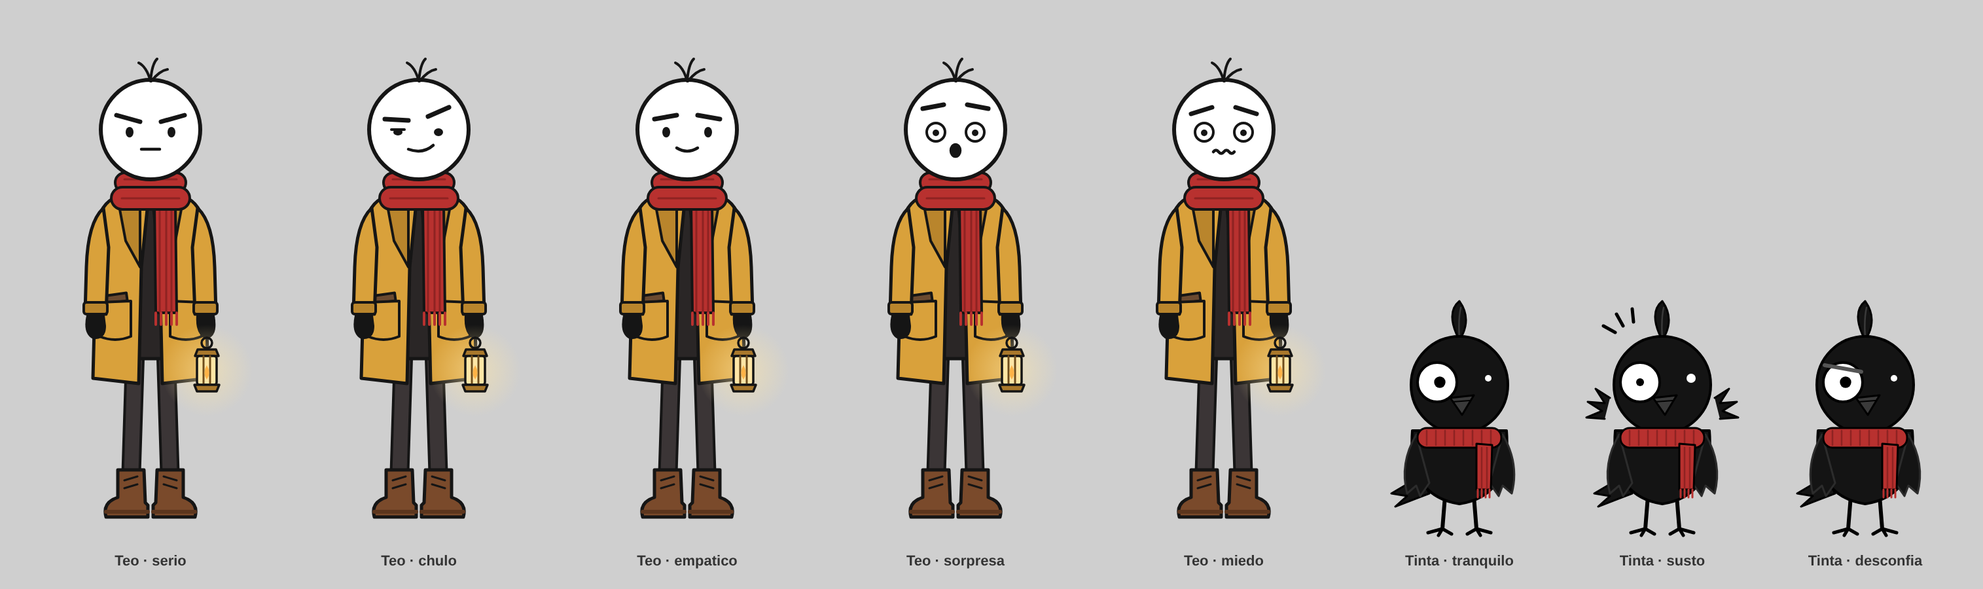
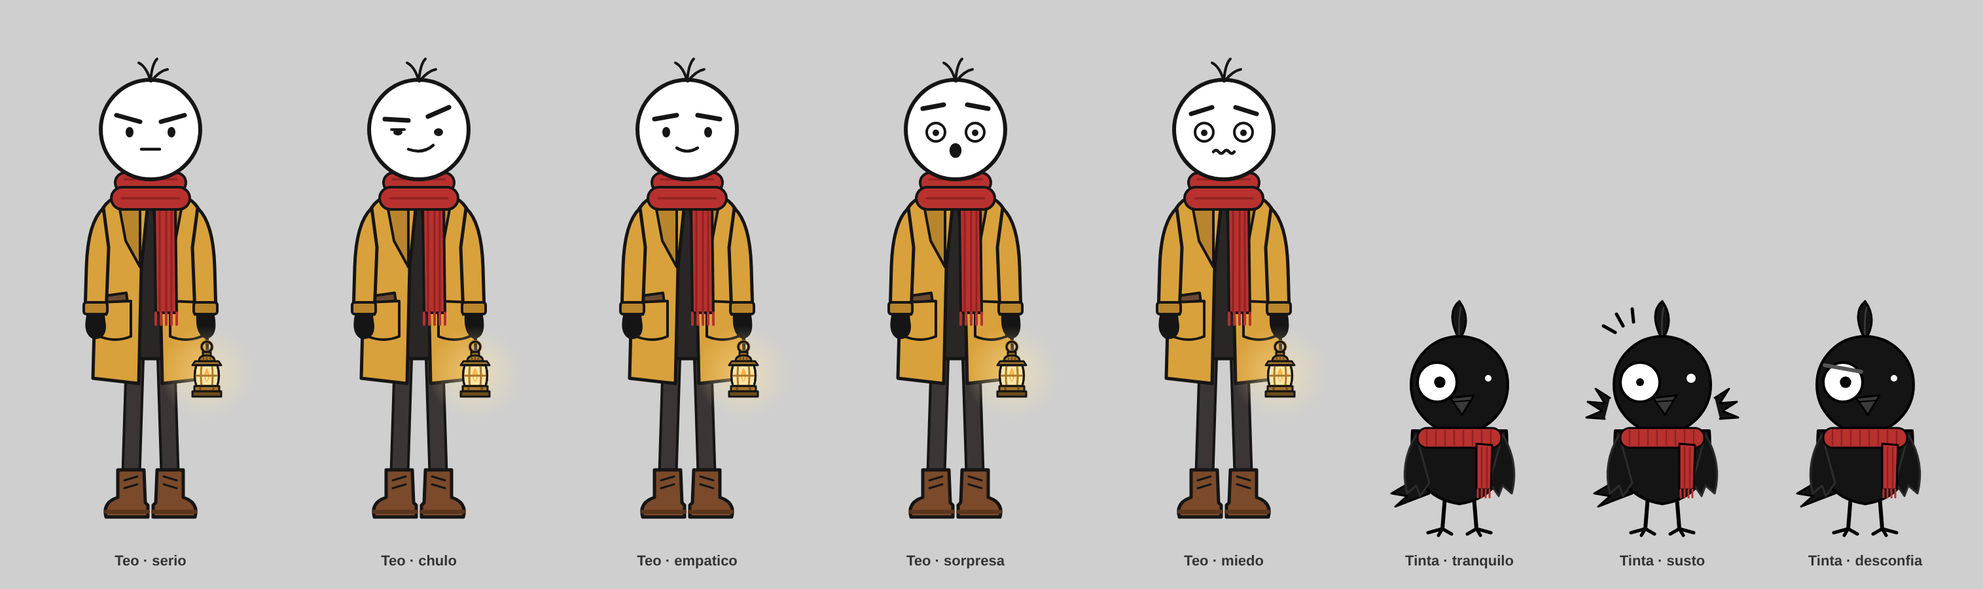
Personajes secundarios y objetos del episodio 001 en código; farol rehecho según la referencia
Claude-Session: https://claude.ai/code/session_01WqueqmNwLH2A2bwKD2Jsqo

diff --git a/codigo/personajes/secundarios.js b/codigo/personajes/secundarios.js
@@ -1,0 +1,110 @@
+// Personajes secundarios del episodio 001, construidos sobre figura().
+const { figura, T } = require('./figura');
+
+const AZUL = '#1F2A48', ORO = '#E0B040', OLIVA = '#4D5A33', OLIVA2 = '#3E4A28';
+
+// ---------- Accesorios ----------
+const gorraPiloto = (vista) => vista === 'perfil'
+  ? `<path d="M130 76 Q140 30 214 28 Q262 32 262 64 L250 80 L136 84 Z" fill="${AZUL}" stroke="${T}" stroke-width="5"/>
+     <path d="M136 70 L252 66 L252 82 L136 86 Z" fill="${ORO}" stroke="${T}" stroke-width="3"/>
+     <path d="M230 80 Q280 78 300 96 L238 92 Z" fill="${T}"/>`
+  : `<ellipse cx="200" cy="44" rx="104" ry="34" fill="${AZUL}" stroke="${T}" stroke-width="5"/>
+     <path d="M130 52 H270 V84 H130 Z" fill="${AZUL}" stroke="${T}" stroke-width="5"/>
+     <path d="M130 60 H270 V72 H130 Z" fill="${ORO}" stroke="${T}" stroke-width="3"/>
+     <path d="M136 84 Q200 104 264 84 L262 96 Q200 114 138 96 Z" fill="${T}"/>`;
+
+const bigote = (vista) => vista === 'perfil'
+  ? `<path d="M234 140 Q246 132 262 140 Q252 148 234 146 Z" fill="${T}"/>`
+  : `<path d="M174 142 Q186 130 200 138 Q214 130 226 142 Q214 148 200 142 Q186 148 174 142 Z" fill="${T}"/>`;
+
+const auriculares = (vista) => vista === 'perfil'
+  ? `<path d="M140 110 Q150 36 220 40" stroke="#222" stroke-width="12" fill="none"/>
+     <rect x="160" y="100" width="34" height="54" rx="14" fill="#2A2A2A" stroke="${T}" stroke-width="4"/>
+     <path d="M188 146 Q214 182 246 172" stroke="#222" stroke-width="5" fill="none"/><circle cx="248" cy="172" r="7" fill="#222"/>`
+  : `<path d="M126 118 Q130 30 200 34 Q270 30 274 118" stroke="#222" stroke-width="12" fill="none"/>
+     <rect x="108" y="100" width="34" height="56" rx="14" fill="#2A2A2A" stroke="${T}" stroke-width="4"/>
+     <rect x="258" y="100" width="34" height="56" rx="14" fill="#2A2A2A" stroke="${T}" stroke-width="4"/>
+     <path d="M272 150 Q262 176 232 172" stroke="#222" stroke-width="5" fill="none"/><circle cx="230" cy="172" r="7" fill="#222"/>`;
+
+const casco = (vista) => vista === 'perfil'
+  ? `<path d="M118 150 Q100 40 196 36 Q270 36 280 100 L246 104 Q230 70 196 74 Q160 80 160 150 Z" fill="#EDEBE4" stroke="${T}" stroke-width="5"/>
+     <path d="M150 50 Q200 22 262 60 L250 80 Q200 54 160 74 Z" fill="#1E1E1E" stroke="${T}" stroke-width="4"/>
+     <circle cx="148" cy="120" r="12" fill="#BDBAB0" stroke="${T}" stroke-width="3"/>
+     <path d="M150 156 Q170 196 140 236" stroke="#4E4E44" stroke-width="12" fill="none" stroke-dasharray="6 3"/>`
+  : `<path d="M112 160 Q96 40 200 36 Q304 40 288 160 L268 160 Q272 76 200 76 Q128 76 132 160 Z" fill="#EDEBE4" stroke="${T}" stroke-width="5"/>
+     <path d="M134 60 Q200 20 266 60 L258 82 Q200 54 142 82 Z" fill="#1E1E1E" stroke="${T}" stroke-width="4"/>
+     <circle cx="122" cy="130" r="10" fill="#BDBAB0" stroke="${T}" stroke-width="3"/><circle cx="278" cy="130" r="10" fill="#BDBAB0" stroke="${T}" stroke-width="3"/>`;
+
+const peloBob = (vista) => vista === 'perfil'
+  ? `<path d="M126 150 Q110 40 200 38 Q250 40 268 80 Q240 70 218 90 Q190 80 170 96 L170 170 Q150 176 126 150 Z" fill="#fff" stroke="${T}" stroke-width="5"/>`
+  : `<path d="M118 172 Q96 40 200 36 Q304 40 282 172 L256 172 Q262 120 250 96 Q200 108 150 96 Q138 120 144 172 Z" fill="#fff" stroke="${T}" stroke-width="5"/>
+     <path d="M156 98 V84 M180 102 V86 M204 104 V88 M228 102 V86 M248 98 V84" stroke="${T}" stroke-width="3"/>`;
+
+// ---------- Torso ----------
+const uniforme = (vista, galones) => {
+  const g = (x, y) => Array.from({ length: galones }, (_, i) => `<path d="M${x - 14} ${y + i * 9} h28" stroke="${ORO}" stroke-width="5"/>`).join('');
+  return vista === 'perfil'
+    ? `<path d="M222 228 L236 228 L232 300 Z" fill="#fff" stroke="${T}" stroke-width="3"/><path d="M228 236 L232 290" stroke="${T}" stroke-width="6"/>
+       <circle cx="226" cy="330" r="5" fill="${ORO}"/><circle cx="226" cy="380" r="5" fill="${ORO}"/>`
+    : `<path d="M178 226 L200 290 L222 226 Z" fill="#fff" stroke="${T}" stroke-width="3"/><path d="M200 236 L194 280 L200 300 L206 280 Z" fill="${T}"/>
+       <path d="M178 226 L200 300 L168 360 L150 236 Z M222 226 L200 300 L232 360 L250 236 Z" fill="${AZUL}" stroke="${T}" stroke-width="3" opacity="0.9"/>
+       <circle cx="200" cy="340" r="5" fill="${ORO}"/><circle cx="200" cy="384" r="5" fill="${ORO}"/>
+`;
+};
+// Galones dorados en los puños (de frente): van por delante de los brazos.
+const galonesFrente = (n) => [126, 274].map(x => Array.from({ length: n }, (_, i) => `<path d="M${x - 13} ${398 - i * 9} h26" stroke="${ORO}" stroke-width="5"/>`).join('')).join('');
+const arnes = (vista) => vista === 'perfil'
+  ? `<path d="M190 232 L196 430 M166 380 H240" stroke="#5E5E52" stroke-width="10"/><rect x="186" y="368" width="20" height="22" fill="#A8A8A0" stroke="${T}" stroke-width="3"/>`
+  : `<path d="M168 232 L176 430 M232 232 L224 430 M140 400 H260" stroke="#5E5E52" stroke-width="10"/>
+     <rect x="188" y="388" width="24" height="24" fill="#A8A8A0" stroke="${T}" stroke-width="3"/><path d="M200 232 V380" stroke="${OLIVA2}" stroke-width="4"/>
+     <rect x="150" y="300" width="32" height="34" fill="${OLIVA2}" stroke="${T}" stroke-width="3"/>`;
+const camisaControlador = (vista) => vista === 'perfil'
+  ? `<path d="M220 228 L236 228 L230 250 Z" fill="#fff" stroke="${T}" stroke-width="3"/><path d="M162 426 H240" stroke="#222" stroke-width="10"/>`
+  : `<path d="M180 226 L200 252 L220 226" fill="none" stroke="${T}" stroke-width="4"/><path d="M200 252 V420" stroke="${T}" stroke-width="3"/>
+     <rect x="214" y="280" width="30" height="30" fill="none" stroke="${T}" stroke-width="3"/><path d="M136 426 H264" stroke="#222" stroke-width="10"/><rect x="190" y="418" width="20" height="16" fill="#9A9A9A"/>`;
+const rebeca = (vista) => vista === 'perfil'
+  ? `<path d="M220 228 L238 230 L232 262 Z" fill="#F2EAD8" stroke="${T}" stroke-width="3"/><circle cx="232" cy="300" r="5" fill="${T}"/><circle cx="234" cy="350" r="5" fill="${T}"/>`
+  : `<path d="M176 226 L200 262 L224 226 Z" fill="#F2EAD8" stroke="${T}" stroke-width="3"/><path d="M200 262 V420" stroke="${T}" stroke-width="3"/>
+     <circle cx="200" cy="300" r="5" fill="${T}"/><circle cx="200" cy="340" r="5" fill="${T}"/><circle cx="200" cy="380" r="5" fill="${T}"/>`;
+
+// ---------- Objetos de mano ----------
+const microfono = (x, y) => `<g transform="translate(${x} ${y})"><rect x="-16" y="-34" width="32" height="50" rx="12" fill="#4A4F3E" stroke="${T}" stroke-width="4"/>
+  <path d="M-8 -22 h16 M-8 -14 h16 M-8 -6 h16" stroke="${T}" stroke-width="3"/>
+  <path d="M0 16 q-10 16 4 22 q14 6 0 18 q-14 10 4 20 q16 8 0 20" stroke="#222" stroke-width="5" fill="none"/></g>`;
+const cuernoMando = (x, y) => `<g transform="translate(${x} ${y})"><path d="M0 -50 V50" stroke="#222" stroke-width="20" stroke-linecap="round"/><path d="M-8 0 H40" stroke="#333" stroke-width="16"/></g>`;
+const palanca = (x, y) => `<g transform="translate(${x} ${y})"><path d="M0 0 V-70" stroke="#2a2a2a" stroke-width="12"/><rect x="-12" y="-96" width="24" height="34" rx="8" fill="#333" stroke="${T}" stroke-width="3"/><circle cx="0" cy="-92" r="5" fill="#C0392B"/></g>`;
+const cascoEnMano = (x, y) => `<g transform="translate(${x} ${y})"><circle r="56" fill="#EDEBE4" stroke="${T}" stroke-width="5"/><path d="M-40 -10 Q0 -44 40 -10 Q30 30 0 34 Q-30 30 -40 -10 Z" fill="#1E1E1E"/><path d="M0 34 q-10 30 10 60" stroke="#4E4E44" stroke-width="12" fill="none" stroke-dasharray="6 3"/></g>`;
+
+// ---------- Personajes ----------
+const ropaPiloto = { torso: AZUL, pantalon: '#1B2440', zapatos: '#111', manos: '#151515', largoChaqueta: 450 };
+
+const comandante = {
+  depie: (cara = 'serio') => figura({ vista: 'frente', cara, ropa: ropaPiloto, pecho: uniforme('frente', 4), cabeza: gorraPiloto('frente') + bigote('frente'), delante: galonesFrente(4) }),
+  mandos: (cara = 'serio') => figura({ vista: 'perfil', pose: 'sentado', cara, ropa: ropaPiloto, pecho: uniforme('perfil', 4),
+    cabeza: gorraPiloto('perfil') + bigote('perfil'), brazoIzq: [[250, 320], [320, 316]], brazoDer: [[262, 330], [330, 330]], delante: cuernoMando(338, 322) }),
+  radio: (cara = 'preocupado') => figura({ vista: 'perfil', pose: 'sentado', cara, ropa: ropaPiloto, pecho: uniforme('perfil', 4),
+    cabeza: gorraPiloto('perfil') + bigote('perfil'), brazoIzq: [[240, 340], [300, 380]], brazoDer: [[262, 320], [262, 196]], delante: microfono(268, 196) }),
+};
+const copiloto = {
+  depie: (cara = 'serio') => figura({ vista: 'frente', cara, ropa: { ...ropaPiloto, manos: '#fff' }, pecho: uniforme('frente', 2), cabeza: auriculares('frente'), delante: galonesFrente(2) }),
+  sentado: (cara = 'serio') => figura({ vista: 'perfil', pose: 'sentado', cara, ropa: { ...ropaPiloto, manos: '#fff' }, pecho: uniforme('perfil', 2), cabeza: auriculares('perfil'), brazoIzq: [[236, 360], [290, 420]], brazoDer: [[250, 370], [300, 420]] }),
+  senala: (cara = 'sorpresa') => figura({ vista: 'perfil', pose: 'sentado', cara, ropa: { ...ropaPiloto, manos: '#fff' }, pecho: uniforme('perfil', 2), cabeza: auriculares('perfil'), brazoIzq: [[236, 360], [290, 420]], brazoDer: [[290, 250], [372, 236]] }),
+};
+const ropaCaza = { torso: OLIVA, pantalon: OLIVA, zapatos: '#151515', manos: '#151515', largoChaqueta: 460 };
+const pilotoCaza = {
+  depie: (cara = 'decidido') => figura({ vista: 'frente', cara, ropa: ropaCaza, pecho: arnes('frente'), brazoIzq: [[120, 320], [160, 360]], delante: cascoEnMano(130, 360) }),
+  cabina: (cara = 'decidido') => figura({ vista: 'perfil', pose: 'sentado', silla: false, cara, ropa: ropaCaza, pecho: arnes('perfil'), cabeza: casco('perfil'), brazoIzq: [[236, 360], [290, 400]], brazoDer: [[250, 360], [300, 420]], delante: palanca(300, 470) }),
+};
+const controlador = {
+  depie: (cara = 'serio') => figura({ vista: 'frente', cara, ropa: { torso: '#A9C3E3', pantalon: '#26304A', manos: '#151515', mangaCorta: true, largoChaqueta: 430 }, pecho: camisaControlador('frente'), cabeza: auriculares('frente') }),
+  sentado: (cara = 'serio') => figura({ vista: 'perfil', pose: 'sentado', cara, ropa: { torso: '#A9C3E3', pantalon: '#26304A', manos: '#151515', mangaCorta: true, largoChaqueta: 430 }, pecho: camisaControlador('perfil'), cabeza: auriculares('perfil'), brazoIzq: [[240, 340], [310, 360]], brazoDer: [[250, 350], [320, 370]] }),
+  senala: (cara = 'grita') => figura({ vista: 'perfil', pose: 'sentado', cara, ropa: { torso: '#A9C3E3', pantalon: '#26304A', manos: '#151515', mangaCorta: true, largoChaqueta: 430 }, pecho: camisaControlador('perfil'), cabeza: auriculares('perfil'), brazoIzq: [[240, 340], [310, 360]], brazoDer: [[290, 260], [380, 250]] }),
+};
+const ropaControladora = { torso: '#C7AE8A', pantalon: '#151515', manos: '#151515', falda: '#5A4030', largoChaqueta: 440 };
+const controladora = {
+  depie: (cara = 'serio') => figura({ vista: 'frente', cara, ropa: ropaControladora, pecho: rebeca('frente'), detrasCabeza: '', cabeza: peloBob('frente') + auriculares('frente') }),
+  sentada: (cara = 'serio') => figura({ vista: 'perfil', pose: 'sentado', cara, ropa: ropaControladora, pecho: rebeca('perfil'), cabeza: peloBob('perfil') + auriculares('perfil'), brazoIzq: [[240, 340], [310, 360]], brazoDer: [[250, 350], [320, 370]] }),
+  sorpresa: (cara = 'sorpresa') => figura({ vista: 'perfil', pose: 'sentado', cara, ropa: ropaControladora, pecho: rebeca('perfil'), cabeza: peloBob('perfil') + auriculares('perfil'), brazoIzq: [[240, 340], [310, 360]], brazoDer: [[270, 320], [250, 250]] }),
+};
+
+module.exports = { comandante, copiloto, pilotoCaza, controlador, controladora };

diff --git a/codigo/personajes/figura.js b/codigo/personajes/figura.js
@@ -1,0 +1,113 @@
+// Monigote genérico y configurable: sirve para el comandante, el copiloto, el piloto del caza,
+// los controladores y el elenco de cada episodio. Caja de 400 x 760, misma escala que Teo y Lucía.
+//
+// opciones:
+//   vista: 'frente' | 'perfil' (el perfil mira a la derecha)
+//   pose: 'depie' | 'sentado'
+//   cara: 'serio' | 'preocupado' | 'sorpresa' | 'grita' | 'decidido'
+//   ropa: { torso, mangas, pantalon, zapatos, manos, largoChaqueta, mangaCorta, falda }
+//   brazoIzq / brazoDer: [[codoX, codoY], [manoX, manoY]] (coordenadas absolutas de la caja)
+//   cabeza: svg extra por encima de la cabeza (gorra, casco, auriculares, pelo)
+//   detrasCabeza: svg por detrás de la cabeza (pelo largo, casco trasero)
+//   pecho: svg extra encima del torso (corbata, botones, arneses)
+//   delante: svg extra por delante de todo (objeto en la mano)
+//   silla: true para dibujar el asiento (solo sentado)
+const T = '#151515';
+
+const CARAS = {
+  frente: {
+    serio:      { cejas: 'M148 98 L184 108 M216 108 L252 98', ojos: 'normal', boca: 'M186 150 L214 150' },
+    decidido:   { cejas: 'M148 94 L186 110 M214 110 L252 94', ojos: 'normal', boca: 'M184 152 L216 150' },
+    preocupado: { cejas: 'M150 104 L184 94 M216 94 L250 104', ojos: 'normal', boca: 'M186 154 q7 -6 14 0 q7 6 14 0' },
+    sorpresa:   { cejas: 'M150 90 Q166 80 182 86 M218 86 Q234 80 250 90', ojos: 'grandes', boca: 'O' },
+    grita:      { cejas: 'M148 96 L184 106 M216 106 L252 96', ojos: 'grandes', boca: 'G' },
+  },
+  perfil: {
+    serio:      { cejas: 'M222 100 L254 108', ojo: [240, 124], boca: 'M232 152 L254 150' },
+    decidido:   { cejas: 'M220 96 L256 110', ojo: [240, 126], boca: 'M230 152 L256 150' },
+    preocupado: { cejas: 'M222 108 L254 96', ojo: [240, 124], boca: 'M232 154 q6 -5 12 0 q6 5 12 0' },
+    sorpresa:   { cejas: 'M222 92 Q238 82 254 90', ojo: [240, 122], boca: 'O' },
+    grita:      { cejas: 'M220 98 L254 106', ojo: [240, 122], boca: 'G' },
+  },
+};
+
+function cara(vista, nombre) {
+  const c = CARAS[vista][nombre] || CARAS[vista].serio;
+  let s = `<path d="${c.cejas}" stroke="${T}" stroke-width="7" stroke-linecap="round" fill="none"/>`;
+  if (vista === 'frente') {
+    s += c.ojos === 'grandes'
+      ? `<circle cx="168" cy="124" r="13" fill="#fff" stroke="${T}" stroke-width="4"/><circle cx="232" cy="124" r="13" fill="#fff" stroke="${T}" stroke-width="4"/><circle cx="168" cy="125" r="5" fill="${T}"/><circle cx="232" cy="125" r="5" fill="${T}"/>`
+      : `<ellipse cx="168" cy="124" rx="6" ry="8" fill="${T}"/><ellipse cx="232" cy="124" rx="6" ry="8" fill="${T}"/>`;
+    if (c.boca === 'O') s += `<ellipse cx="200" cy="156" rx="8" ry="10" fill="${T}"/>`;
+    else if (c.boca === 'G') s += `<path d="M180 146 Q200 140 220 146 Q216 178 200 178 Q184 178 180 146 Z" fill="${T}"/><path d="M188 168 Q200 162 212 168" stroke="#C0504D" stroke-width="5" fill="none"/>`;
+    else s += `<path d="${c.boca}" stroke="${T}" stroke-width="4.5" fill="none" stroke-linecap="round"/>`;
+  } else {
+    const [x, y] = c.ojo;
+    s += `<ellipse cx="${x}" cy="${y}" rx="6" ry="8" fill="${T}"/>`;
+    if (c.boca === 'O') s += `<ellipse cx="246" cy="156" rx="7" ry="9" fill="${T}"/>`;
+    else if (c.boca === 'G') s += `<path d="M230 148 L262 144 Q258 176 244 176 Q232 174 230 148 Z" fill="${T}"/>`;
+    else s += `<path d="${c.boca}" stroke="${T}" stroke-width="4.5" fill="none" stroke-linecap="round"/>`;
+  }
+  return s;
+}
+
+const trazo = (d, color, ancho) => `<path d="${d}" fill="none" stroke="${T}" stroke-width="${ancho + 8}" stroke-linecap="round" stroke-linejoin="round"/><path d="${d}" fill="none" stroke="${color}" stroke-width="${ancho}" stroke-linecap="round" stroke-linejoin="round"/>`;
+const palo = (d) => `<path d="${d}" fill="none" stroke="${T}" stroke-width="9" stroke-linecap="round" stroke-linejoin="round"/>`;
+
+function silla() {
+  return `<g stroke="${T}" stroke-width="5" stroke-linejoin="round">
+    <path d="M96 230 Q100 210 130 212 L176 216 Q186 220 186 240 L184 470 L106 470 Z" fill="#3E4250"/>
+    <path d="M100 450 H350 Q362 452 360 470 L356 500 H104 Z" fill="#4A4F60"/>
+    <rect x="214" y="500" width="30" height="140" fill="#55585F"/>
+    <path d="M150 650 H310 L300 636 H160 Z" fill="#55585F"/></g>`;
+}
+
+function figura(o = {}) {
+  const vista = o.vista || 'frente', sentado = o.pose === 'sentado';
+  const r = Object.assign({ torso: '#2B3A5C', mangas: null, pantalon: '#2B2B33', zapatos: '#151515', manos: '#151515', largoChaqueta: 440 }, o.ropa || {});
+  const mangas = r.mangas || r.torso;
+  const perfil = vista === 'perfil';
+  // Hombros y caderas
+  const hI = perfil ? [196, 236] : [150, 238], hD = perfil ? [206, 236] : [250, 238];
+  const cad = 430;
+  const bI = o.brazoIzq || (perfil ? [[196, 330], [204, 420]] : [[130, 330], [126, 420]]);
+  const bD = o.brazoDer || (perfil ? [[210, 330], [216, 420]] : [[270, 330], [274, 420]]);
+  const brazo = (h, [c, m]) => `M${h[0]} ${h[1]} L${c[0]} ${c[1]} L${m[0]} ${m[1]}`;
+  const dibBrazo = (h, b) => {
+    if (r.mangaCorta) { const mx = h[0] + (b[0][0] - h[0]) * 0.55, my = h[1] + (b[0][1] - h[1]) * 0.55;
+      return trazo(`M${h[0]} ${h[1]} L${mx} ${my}`, mangas, 26) + palo(`M${mx} ${my} L${b[0][0]} ${b[0][1]} L${b[1][0]} ${b[1][1]}`); }
+    return trazo(brazo(h, b), mangas, 20);
+  };
+  const mano = ([, m]) => `<ellipse cx="${m[0]}" cy="${m[1] + 6}" rx="14" ry="16" fill="${r.manos}" stroke="${T}" stroke-width="4"/>`;
+  // Piernas
+  let piernas;
+  if (sentado) {
+    const pie = (x) => `<path d="M${x - 16} 640 h48 q12 0 12 14 v8 h-60 z" fill="${r.zapatos}" stroke="${T}" stroke-width="4"/>`;
+    piernas = (r.falda ? trazo('M200 432 L318 446 L320 636', '#151515', 2).replace(/stroke-width="10"/, 'stroke-width="9"') : trazo('M196 432 L316 446 L318 632', r.pantalon, 24)) + pie(318);
+  } else if (perfil) {
+    piernas = (r.falda ? palo('M198 520 L196 690 M206 520 L210 690') : trazo('M196 432 L194 684', r.pantalon, 24) + trazo('M206 432 L210 684', r.pantalon, 24))
+      + `<path d="M178 680 h44 q20 2 20 18 v6 h-64 z" fill="${r.zapatos}" stroke="${T}" stroke-width="4"/>`;
+  } else {
+    piernas = (r.falda ? palo('M182 520 L178 690 M218 520 L222 690') : trazo('M176 432 L172 684', r.pantalon, 26) + trazo('M224 432 L228 684', r.pantalon, 26))
+      + `<ellipse cx="164" cy="696" rx="34" ry="16" fill="${r.zapatos}" stroke="${T}" stroke-width="4"/><ellipse cx="236" cy="696" rx="34" ry="16" fill="${r.zapatos}" stroke="${T}" stroke-width="4"/>`;
+  }
+  const falda = r.falda ? (perfil || sentado ? `<path d="M168 420 L240 420 L${sentado ? 300 : 250} 530 L${sentado ? 190 : 156} 530 Z" fill="${r.falda}" stroke="${T}" stroke-width="5"/>` : `<path d="M150 420 L250 420 L268 530 L132 530 Z" fill="${r.falda}" stroke="${T}" stroke-width="5"/>`) : '';
+  const torso = perfil
+    ? `<path d="M166 226 Q200 214 236 226 L240 ${r.largoChaqueta} L162 ${r.largoChaqueta} Z" fill="${r.torso}" stroke="${T}" stroke-width="5" stroke-linejoin="round"/>`
+    : `<path d="M140 228 Q200 212 260 228 L264 ${r.largoChaqueta} L136 ${r.largoChaqueta} Z" fill="${r.torso}" stroke="${T}" stroke-width="5" stroke-linejoin="round"/>`;
+  // En perfil el brazo izquierdo (el lejano) va por detrás del torso.
+  return `<svg xmlns="http://www.w3.org/2000/svg" viewBox="0 0 400 760" width="400" height="760">
+  ${sentado && o.silla !== false ? silla() : ''}
+  ${perfil ? dibBrazo(hI, bI) + mano(bI) : ''}
+  ${piernas}${falda}${torso}${o.pecho || ''}
+  ${perfil ? '' : dibBrazo(hI, bI) + mano(bI)}
+  ${dibBrazo(hD, bD)}${mano(bD)}
+  ${o.detrasCabeza || ''}
+  <circle cx="200" cy="120" r="76" fill="#fff" stroke="${T}" stroke-width="6"/>
+  ${cara(vista, o.cara || 'serio')}
+  ${o.cabeza || ''}
+  ${o.delante || ''}
+  </svg>`;
+}
+
+module.exports = { figura, T };

diff --git a/codigo/objetos/objetos.js b/codigo/objetos/objetos.js
@@ -1,0 +1,96 @@
+// Objetos del episodio 001 dibujados en SVG.
+const T = '#151515';
+
+// Avión de pasajeros de los 70 (tipo Caravelle), de perfil mirando a la derecha. Caja 1200 x 360.
+function avion({ ventanasEncendidas = true } = {}) {
+  let ventanas = '';
+  for (let i = 0; i < 21; i++) ventanas += `<rect x="${450 + i * 28}" y="160" width="14" height="18" rx="4" fill="${ventanasEncendidas ? '#FFE3A0' : '#9AA3AE'}" stroke="${T}" stroke-width="2"/>`;
+  return `<svg xmlns="http://www.w3.org/2000/svg" viewBox="0 0 1200 360" width="1200" height="360">
+  <g stroke-linejoin="round" stroke-linecap="round">
+    <!-- deriva y estabilizador -->
+    <path d="M150 140 L110 30 L170 30 L280 140 Z" fill="#1F5BB0" stroke="${T}" stroke-width="5"/>
+    <path d="M118 48 L176 48 L270 138" stroke="#F4F1EA" stroke-width="10" fill="none"/>
+    <path d="M60 64 L230 58 L236 76 L60 80 Z" fill="#C9CDD2" stroke="${T}" stroke-width="4"/>
+    <!-- fuselaje -->
+    <path d="M90 150 Q100 132 160 130 L1080 130 Q1150 134 1170 180 Q1150 222 1080 226 L200 226 Q120 220 90 180 Z" fill="#F4F1EA" stroke="${T}" stroke-width="5"/>
+    <path d="M100 186 Q140 214 200 222 L1080 222 Q1140 218 1162 196 L1162 190 L96 190 Z" fill="#1F5BB0"/>
+    <path d="M110 184 H1166" stroke="#F4F1EA" stroke-width="6"/>
+    <path d="M90 150 Q100 132 160 130 L1080 130 Q1150 134 1170 180 Q1150 222 1080 226 L200 226 Q120 220 90 180 Z" fill="none" stroke="${T}" stroke-width="5"/>
+    <!-- morro y cabina -->
+    <path d="M1150 160 Q1180 170 1182 182 Q1176 196 1150 202 Q1160 182 1150 160 Z" fill="#1A1A1A" stroke="${T}" stroke-width="3"/>
+    <path d="M1086 150 L1130 150 L1144 164 L1086 166 Z" fill="#FFE3A0" stroke="${T}" stroke-width="3"/><path d="M1104 150 V166 M1122 150 V166" stroke="${T}" stroke-width="3"/>
+    ${ventanas}
+    <rect x="1050" y="152" width="0" height="0" rx="5" fill="none" stroke="${T}" stroke-width="3"/><rect x="1040" y="152" width="22" height="40" rx="5" fill="none" stroke="${T}" stroke-width="3"/>
+    <!-- motor trasero -->
+    <path d="M230 150 Q236 128 300 128 L420 132 Q440 150 420 168 L300 172 Q236 172 230 150 Z" fill="#D7DADE" stroke="${T}" stroke-width="5"/>
+    <ellipse cx="420" cy="150" rx="12" ry="18" fill="#2A2A2A" stroke="${T}" stroke-width="3"/>
+    <!-- ala -->
+    <path d="M520 220 L860 214 Q900 216 900 226 L620 252 L500 246 Z" fill="#C9CDD2" stroke="${T}" stroke-width="5"/>
+    <!-- luces de navegación -->
+    <circle cx="512" cy="240" r="6" fill="#FF4A3A"/><circle cx="140" cy="30" r="6" fill="#fff"/>
+  </g></svg>`;
+}
+
+// Caza tipo Mirage F1, de perfil mirando a la derecha. Caja 1200 x 360. postquemador = llama del motor.
+function caza({ postquemador = false } = {}) {
+  const camo = '#7C8188', camo2 = '#A7ACB2';
+  return `<svg xmlns="http://www.w3.org/2000/svg" viewBox="0 0 1200 360" width="1200" height="360">
+  <defs><linearGradient id="llama" x1="1" y1="0" x2="0" y2="0"><stop offset="0" stop-color="#FFF4C2"/><stop offset="0.4" stop-color="#FFB040"/><stop offset="1" stop-color="#FF5A2A" stop-opacity="0"/></linearGradient></defs>
+  <g stroke-linejoin="round" stroke-linecap="round">
+    ${postquemador ? `<path d="M210 168 L0 150 L40 180 L0 210 L210 196 Z" fill="url(#llama)"/><path d="M210 172 L80 180 L210 190 Z" fill="#FFF8D8"/>` : ''}
+    <!-- deriva -->
+    <path d="M260 150 L230 30 L290 30 L420 150 Z" fill="${camo2}" stroke="${T}" stroke-width="5"/>
+    <path d="M250 80 Q290 70 300 110 Q270 120 260 100 Z" fill="${camo}"/>
+    <!-- fuselaje -->
+    <path d="M210 160 L420 140 L860 130 Q960 132 1060 170 L1170 182 L1060 192 Q960 206 860 212 L420 212 L210 200 Z" fill="${camo2}" stroke="${T}" stroke-width="5"/>
+    <path d="M440 150 Q520 140 560 170 Q520 200 460 196 Z M700 140 Q760 130 800 160 Q760 190 700 180 Z M300 160 Q360 150 380 186 Q330 200 300 190 Z" fill="${camo}"/>
+    <path d="M1060 170 L1170 182 L1060 192 Z" fill="#2A2A2A" stroke="${T}" stroke-width="3"/>
+    <path d="M1170 182 H1198" stroke="${T}" stroke-width="4"/>
+    <!-- cabina -->
+    <path d="M820 134 Q860 96 930 108 L980 140 Z" fill="#9FC6DE" stroke="${T}" stroke-width="4"/><path d="M880 104 L888 138" stroke="${T}" stroke-width="3"/>
+    <!-- toma de aire -->
+    <path d="M760 160 L820 158 L812 196 L760 194 Z" fill="${camo}" stroke="${T}" stroke-width="4"/>
+    <!-- ala alta y estabilizador -->
+    <path d="M460 170 L760 160 L700 176 L440 236 L400 230 Z" fill="${camo}" stroke="${T}" stroke-width="5"/>
+    <path d="M240 196 L380 196 L330 224 L230 222 Z" fill="${camo}" stroke="${T}" stroke-width="4"/>
+    <!-- tobera -->
+    <rect x="200" y="158" width="26" height="44" rx="6" fill="#3A3A3A" stroke="${T}" stroke-width="4"/>
+  </g></svg>`;
+}
+
+// Expediente: cerrado (con sello rojo) o abierto (con la foto de las dos luces). Caja 700 x 500.
+function expediente({ abierto = false } = {}) {
+  const papel = '#F1E9D8', carton = '#D6B07A';
+  if (!abierto) return `<svg xmlns="http://www.w3.org/2000/svg" viewBox="0 0 700 500" width="700" height="500"><g stroke="${T}" stroke-width="5" stroke-linejoin="round">
+    <path d="M200 40 H480 L486 470 H196 Z" fill="${papel}"/>
+    <path d="M180 30 H470 Q476 30 476 36 V120 L500 130 V200 L476 210 V470 H180 Z" fill="${carton}"/>
+    <g transform="rotate(-14 330 200)"><rect x="210" y="160" width="250" height="80" rx="8" fill="#C0392B" stroke="none" opacity="0.92"/><rect x="222" y="172" width="226" height="56" rx="4" fill="none" stroke="#F3D9C9" stroke-width="3"/></g>
+  </g></svg>`;
+  let lineas = '';
+  for (let i = 0; i < 4; i++) lineas += `<path d="M390 ${90 + i * 18} h${200 - (i % 2) * 60}" stroke="#7A7A7A" stroke-width="5"/>`;
+  for (let i = 0; i < 5; i++) lineas += `<path d="M390 ${380 + i * 18} h${210 - (i % 3) * 40}" stroke="#7A7A7A" stroke-width="5"/>`;
+  return `<svg xmlns="http://www.w3.org/2000/svg" viewBox="0 0 700 500" width="700" height="500"><defs><radialGradient id="luz"><stop offset="0" stop-color="#fff"/><stop offset="1" stop-color="#fff" stop-opacity="0"/></radialGradient></defs>
+  <g stroke="${T}" stroke-width="5" stroke-linejoin="round">
+    <path d="M20 40 L340 60 V470 L30 470 Z" fill="${carton}"/>
+    <path d="M350 50 H660 V470 H350 Z" fill="${carton}"/>
+    <path d="M370 60 H640 V460 H370 Z" fill="${papel}" stroke-width="4"/>
+    <rect x="390" y="170" width="230" height="170" fill="#3E3E3E" stroke-width="4"/>
+    <path d="M390 300 Q450 270 500 300 T620 290 V340 H390 Z" fill="#232323" stroke="none"/>
+    <circle cx="480" cy="230" r="26" fill="url(#luz)" stroke="none"/><circle cx="530" cy="224" r="26" fill="url(#luz)" stroke="none"/>
+    <path d="M500 40 v40 q0 10 10 10 h4" fill="none" stroke="#9A9A9A" stroke-width="6"/>
+  </g>${lineas}</svg>`;
+}
+
+// Micrófono de radio con cable en espiral. Caja 400 x 400.
+function microfono() {
+  let espiral = '';
+  for (let i = 0; i < 14; i++) espiral += `<ellipse cx="${150 + i * 16}" cy="${250 + Math.sin(i / 3) * 30}" rx="10" ry="22" fill="none" stroke="#1E1E1E" stroke-width="8"/>`;
+  return `<svg xmlns="http://www.w3.org/2000/svg" viewBox="0 0 400 400" width="400" height="400"><g stroke="${T}" stroke-width="5" stroke-linejoin="round">
+    <path d="M40 60 Q40 30 80 30 H150 Q180 30 180 70 V150 Q170 200 110 210 Q50 200 40 150 Z" fill="#6E735E"/>
+    ${[0, 1, 2, 3, 4, 5].map(i => `<rect x="62" y="${60 + i * 20}" width="96" height="9" rx="4" fill="#1E1E1E" stroke="none"/>`).join('')}
+    <rect x="176" y="80" width="22" height="46" rx="6" fill="#2A2A2A"/>
+    <path d="M100 210 V236 Q110 252 140 252" fill="none" stroke="#1E1E1E" stroke-width="12"/>
+  </g>${espiral}<rect x="360" y="${250 + Math.sin(13 / 3) * 30 - 16}" width="34" height="32" rx="6" fill="#A8A8A0" stroke="${T}" stroke-width="4"/></svg>`;
+}
+
+module.exports = { avion, caza, expediente, microfono };

diff --git a/codigo/personajes/teo.js b/codigo/personajes/teo.js
@@ -34,15 +34,24 @@ function cara(nombre = 'serio') {
     <path d="${f.boca}" stroke="${C.tinta}" stroke-width="4.5" fill="${nombre === 'sorpresa' ? C.tinta : 'none'}" stroke-linecap="round" stroke-linejoin="round"/>`;
 }
 
+// Farol de latón (según la referencia): aro arriba, cúpula con respiraderos, jaula de cristal
+// abombada y base con dos remaches. (x, y) es el punto del aro donde se agarra.
 function farol(x, y, encendido = true) {
-  return `<g transform="translate(${x} ${y})" stroke="${C.tinta}" stroke-width="3.5" stroke-linejoin="round">
-    ${encendido ? `<defs><radialGradient id="halo"><stop offset="0" stop-color="${C.luz}" stop-opacity="0.55"/><stop offset="1" stop-color="${C.luz}" stop-opacity="0"/></radialGradient></defs><circle cx="0" cy="36" r="70" fill="url(#halo)" stroke="none"/>` : ''}
-    <circle cx="0" cy="-6" r="8" fill="none"/>
-    <path d="M-14 4 L14 4 L18 14 L-18 14 Z" fill="${C.laton}"/>
-    <rect x="-15" y="14" width="30" height="44" rx="4" fill="${encendido ? C.luz : '#d9d2bf'}"/>
-    <path d="M-5 14 V58 M5 14 V58" stroke="${C.latonOscuro}" stroke-width="3"/>
-    ${encendido ? `<path d="M0 50 q-7 -10 0 -22 q7 12 0 22Z" fill="#FFB347" stroke="none"/>` : ''}
-    <path d="M-19 58 L19 58 L15 68 L-15 68 Z" fill="${C.laton}"/>
+  const L = C.laton, O = C.latonOscuro, t = C.tinta;
+  return `<g transform="translate(${x} ${y})" stroke="${t}" stroke-width="3" stroke-linejoin="round">
+    ${encendido ? `<defs><radialGradient id="halo"><stop offset="0" stop-color="${C.luz}" stop-opacity="0.55"/><stop offset="1" stop-color="${C.luz}" stop-opacity="0"/></radialGradient></defs><circle cx="0" cy="40" r="72" fill="url(#halo)" stroke="none"/>` : ''}
+    <circle cx="0" cy="0" r="8" fill="none" stroke="${L}" stroke-width="5"/><circle cx="0" cy="0" r="8" fill="none"/>
+    <path d="M-6 8 h12 v6 h-12 z" fill="${L}"/>
+    <path d="M-12 22 Q-12 13 0 13 Q12 13 12 22 Z" fill="${L}"/>
+    <path d="M-18 22 H18 L22 28 H-22 Z" fill="${L}"/>
+    <path d="M-5 17 v3 M0 16 v4 M5 17 v3" stroke="${O}" stroke-width="2"/>
+    <path d="M-16 28 Q-21 44 -16 60 H16 Q21 44 16 28 Z" fill="${encendido ? C.luz : '#D9D6CC'}"/>
+    ${encendido ? `<path d="M0 54 q-8 -10 0 -22 q8 12 0 22Z" fill="#FFB347" stroke="none"/><path d="M0 52 q-3 -5 0 -11 q3 6 0 11Z" fill="#FFF3C4" stroke="none"/>` : `<path d="M-1 46 v8 M1 46 v8" stroke="#bbb"/>`}
+    <path d="M-8 28 Q-10 44 -8 60 M8 28 Q10 44 8 60 M-19 44 H19" stroke="${L}" stroke-width="3" fill="none"/>
+    <path d="M-16 28 Q-21 44 -16 60 H16 Q21 44 16 28 Z" fill="none"/>
+    <rect x="-19" y="60" width="38" height="8" fill="${L}"/>
+    <circle cx="-10" cy="64" r="2" fill="${O}" stroke="none"/><circle cx="10" cy="64" r="2" fill="${O}" stroke="none"/>
+    <path d="M-22 68 H22 V76 H-22 Z" fill="${O}"/>
   </g>`;
 }
 

diff --git a/codigo/prueba-secundarios.js b/codigo/prueba-secundarios.js
@@ -1,0 +1,16 @@
+// Hoja de prueba de los personajes secundarios. Uso: node prueba-secundarios.js <salida.png>
+const { chromium } = require('playwright');
+const S = require('./personajes/secundarios');
+const lista = [
+  ['Comandante', S.comandante.depie()], ['a los mandos', S.comandante.mandos()], ['con la radio', S.comandante.radio()],
+  ['Copiloto', S.copiloto.depie()], ['sentado', S.copiloto.sentado()], ['señalando', S.copiloto.senala()],
+  ['Piloto del caza', S.pilotoCaza.depie()], ['en la cabina', S.pilotoCaza.cabina()],
+  ['Controlador', S.controlador.depie()], ['sentado', S.controlador.sentado()], ['señalando', S.controlador.senala()],
+  ['Controladora', S.controladora.depie()], ['sentada', S.controladora.sentada()], ['sorpresa', S.controladora.sorpresa()],
+];
+const html = `<html><body style="margin:0;background:#cfcfcf;display:grid;grid-template-columns:repeat(7,400px);gap:6px;padding:20px;width:max-content">
+${lista.map(([n, s]) => `<div style="text-align:center">${s}<div style="font:600 22px sans-serif;color:#333">${n}</div></div>`).join('')}</body></html>`;
+(async () => {
+  const b = await chromium.launch(); const pg = await b.newPage({ viewport: { width: 2900, height: 1700 } });
+  await pg.setContent(html); await pg.locator('body').screenshot({ path: process.argv[2] || 'secundarios.png' }); await b.close();
+})();

diff --git a/codigo/prueba-objetos.js b/codigo/prueba-objetos.js
@@ -1,0 +1,13 @@
+// Hoja de prueba: personajes secundarios corregidos + objetos. Uso: node prueba-objetos.js <carpeta>
+const path = require('path');
+const { chromium } = require('playwright');
+const O = require('./objetos/objetos');
+const { farol } = require('./personajes/teo');
+const html = `<html><body style="margin:0;background:#cfcfcf;padding:20px;width:2460px;display:flex;flex-wrap:wrap;gap:20px;align-items:center">
+  ${O.avion()}${O.caza({ postquemador: true })}${O.expediente()}${O.expediente({ abierto: true })}${O.microfono()}
+  <svg viewBox="-60 -40 120 140" width="240" height="280">${farol(0, 0, false)}</svg><svg viewBox="-60 -40 120 140" width="240" height="280">${farol(0, 0, true)}</svg>
+</body></html>`;
+(async () => {
+  const b = await chromium.launch(); const pg = await b.newPage({ viewport: { width: 2500, height: 1400 } });
+  await pg.setContent(html); await pg.locator('body').screenshot({ path: path.join(process.argv[2] || '.', 'objetos.png') }); await b.close();
+})();

diff --git a/codigo/README.md b/codigo/README.md
@@ -9,3 +9,8 @@ Todo se dibuja en código (SVG), sin imágenes generadas dentro del vídeo final
 ```bash
 node codigo/prueba-personajes.js salida.png
 ```
+- `personajes/lucia.js`: Lucía de frente. Caras: `esceptica`, `ojosBlanco`, `leyendo`, `sorpresa`, `chulita`, `explicando`.
+- `personajes/figura.js`: monigote genérico (frente o perfil, de pie o sentado) para secundarios y elenco.
+- `personajes/secundarios.js`: comandante, copiloto, piloto del caza, controlador y controladora.
+- `objetos/objetos.js`: avión, caza (con y sin postquemador), expediente (cerrado y abierto) y micrófono. El farol está en `teo.js`.
+- `fondos/`: los 9 fondos del episodio 001. `node codigo/render-fondos.js <carpeta>` los exporta a PNG.
